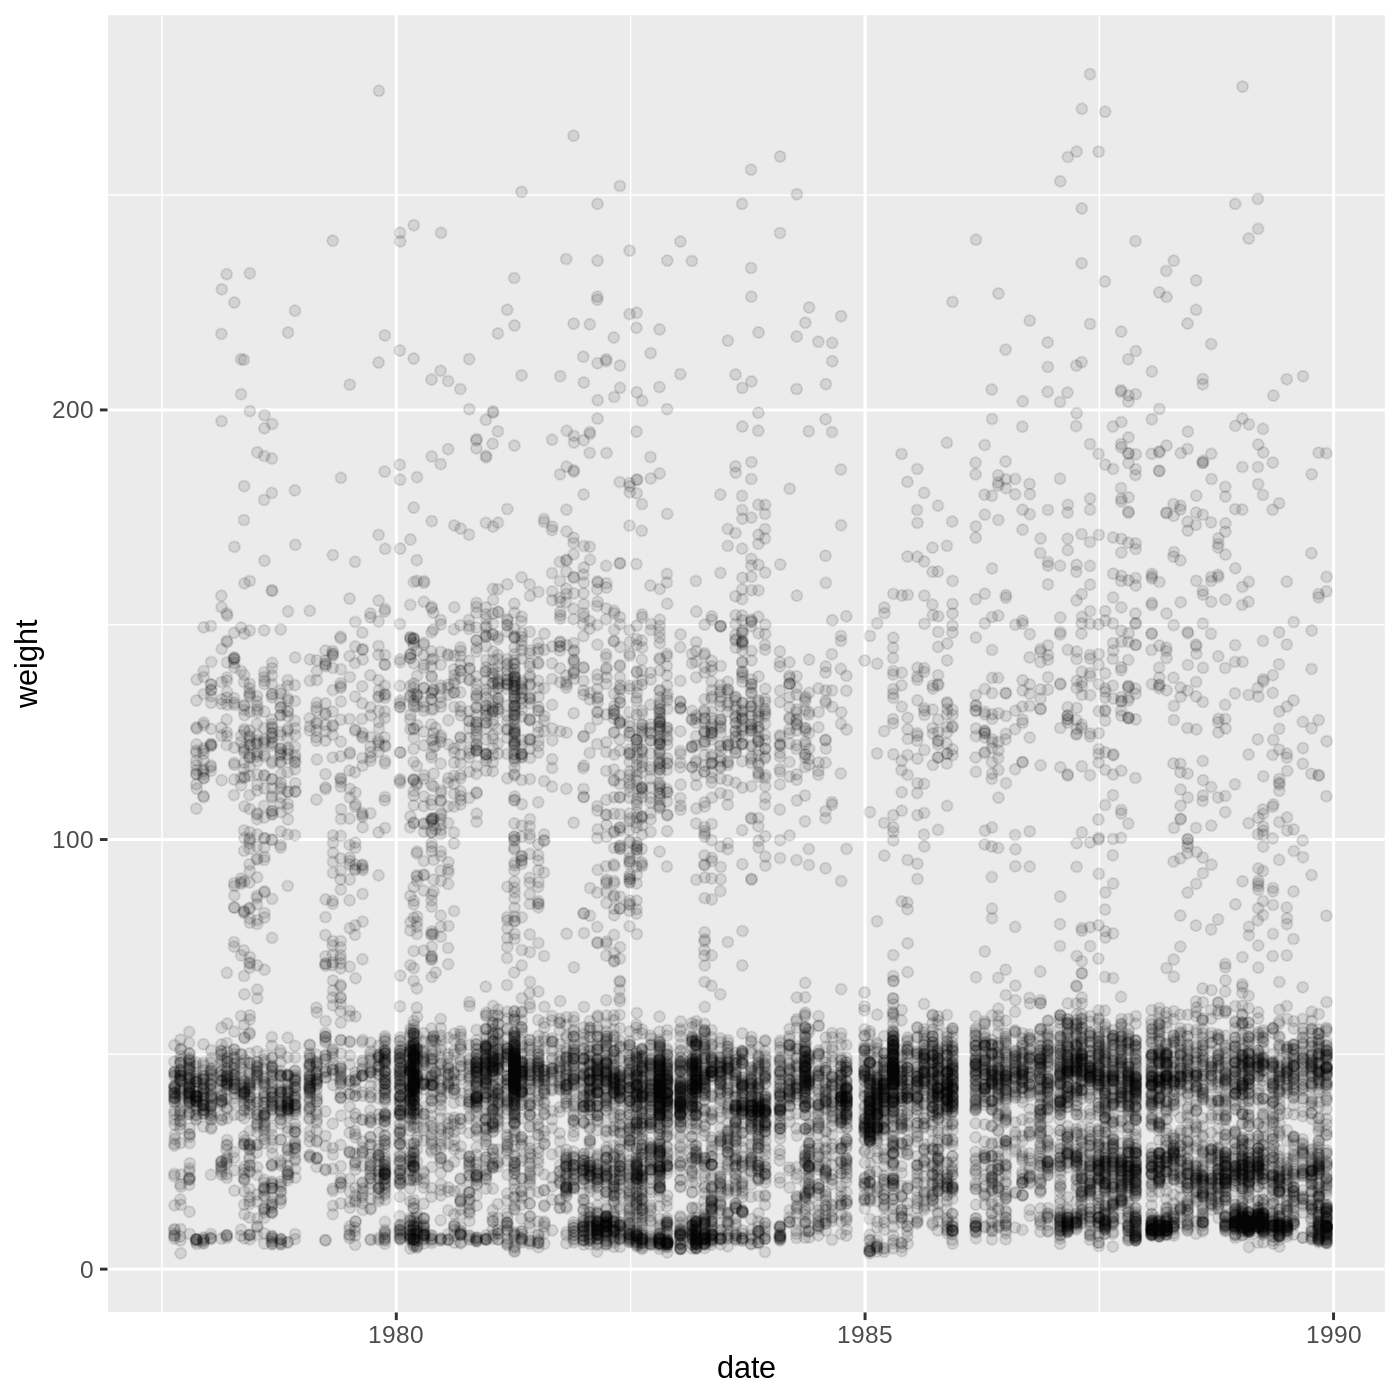
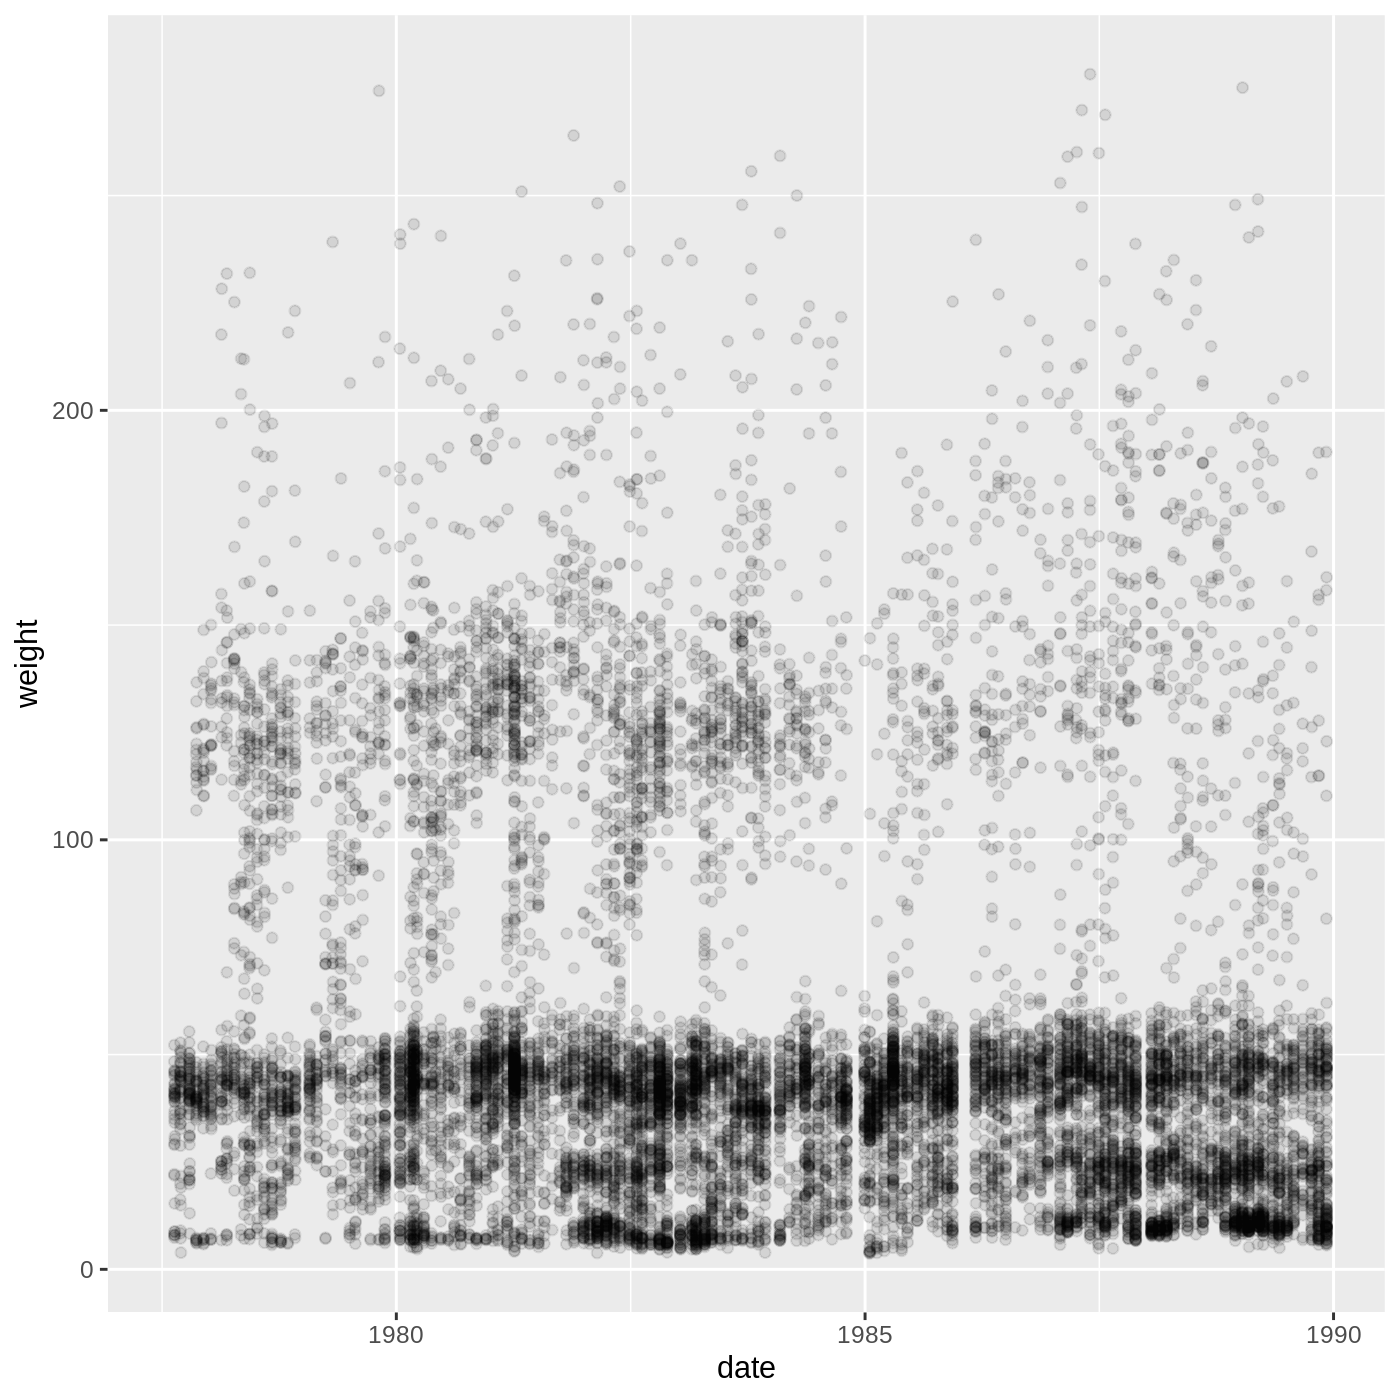
differences for PR #939

diff --git a/working-with-data.md b/working-with-data.md
@@ -70,11 +70,8 @@ library(tidyverse)
 
 ## Importing data
 
-Up until this point, we have been working with the `complete_old` dataframe contained in the `ratdat` package. However, you typically won't access data from an R package; it is much more common to access data files stored somewhere on your computer. We are going to download a CSV file containing the surveys data to our computer, which we will then read into R.
+Up until this point, we have been working with the `complete_old` dataframe contained in the `ratdat` package. However, you typically won't access data from an R package; it is much more common to access data files stored somewhere on your computer. We are now going to start using the data in our `cleaned` directory inside the `data` directory that you downloaded at the beginning of the lesson. This file is called `surveys_complete_77_89.csv`.
 
-Click this link to download the file: <https://datacarpentry.org/R-ecology-lesson/data/cleaned/surveys_complete_77_89.csv>.
-
-You will be prompted to save the file on your computer somewhere. Save it inside the `cleaned` data folder, which is in the `data` folder in your `R-Ecology-Workshop` folder. Once it's inside our project, we will be able to point R towards it.
 
 #### File paths
 

diff --git a/setup.md b/setup.md
@@ -118,9 +118,9 @@ Sometimes, package updates introduce changes that break your old code, which can
 
 ### Download the data
 
-We will download the data directly from R during the lessons. However, if you are expecting problems with the network, it may be better to download the data beforehand and store it on your machine.
+We will download the data we need during the lessons. However, if you are expecting problems with the network, it may be better to download the data beforehand and store it on your machine.
 
-The data files for the lesson can be downloaded manually:
+The data files for the lesson can be downloaded from:
 
  - [cleaned data](../episodes/data/cleaned/surveys_complete_77_89.csv) and 
  - [zip file of raw data](../episodes/data/new_data.zip).

diff --git a/introduction-r-rstudio.md b/introduction-r-rstudio.md
@@ -174,6 +174,8 @@ Let's start making our new folders. Go to the **Files** pane (bottom right), and
 
 Next, click the **New Folder** button, and type in `scripts` to generate your `scripts` folder. It should appear in the Files list now. Repeat the process to make your `data`, `images`, and `documents` folders. Then, click on the `data` folder in the Files pane. This will take you into the `data` folder, which will be empty. Use the **New Folder** button to create `raw` and `cleaned` folders. To return to the `R-Ecology-Workshop` folder, click on it in the file path, which is highlighted in yellow in the previous image. It's worth noting that the **Files** pane helps you create, find, and open files, but moving through your files won't change where the **working directory** of your project is.
 
+We have prepared a cleaned dataset that you will use towards the end of the workshop. Since you're setting up your project directory now, it's a good time to download it and add it to your directory. Click this link to download the file:  <https://datacarpentry.org/R-ecology-lesson/data/cleaned/surveys_complete_77_89.csv>. You may be prompted to save the file on your computer somewhere, or it might download automatically to a Downloads folder. If you are prompted, save it inside the `cleaned` data folder, which is in the `data` folder you just created. If you are not prompted choose a location, wait until it has downloaded and then move it from its current location to the `cleaned` folder using whatever method you would normally use to move files.
+
 ## Working in R and RStudio
 
 The basis of programming is that we write down instructions for the computer to follow, and then we tell the computer to follow those instructions. We write these instructions in the form of *code*, which is a common language that is understood by the computer and humans (after some practice). We call these instructions *commands*, and we tell the computer to follow the instructions by *running* (also called *executing*) the commands.